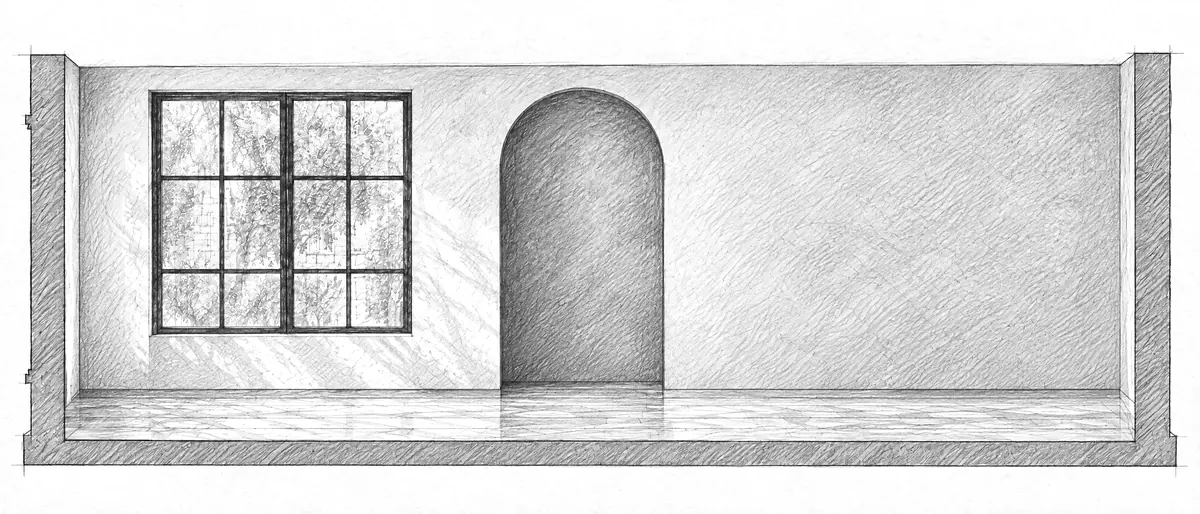
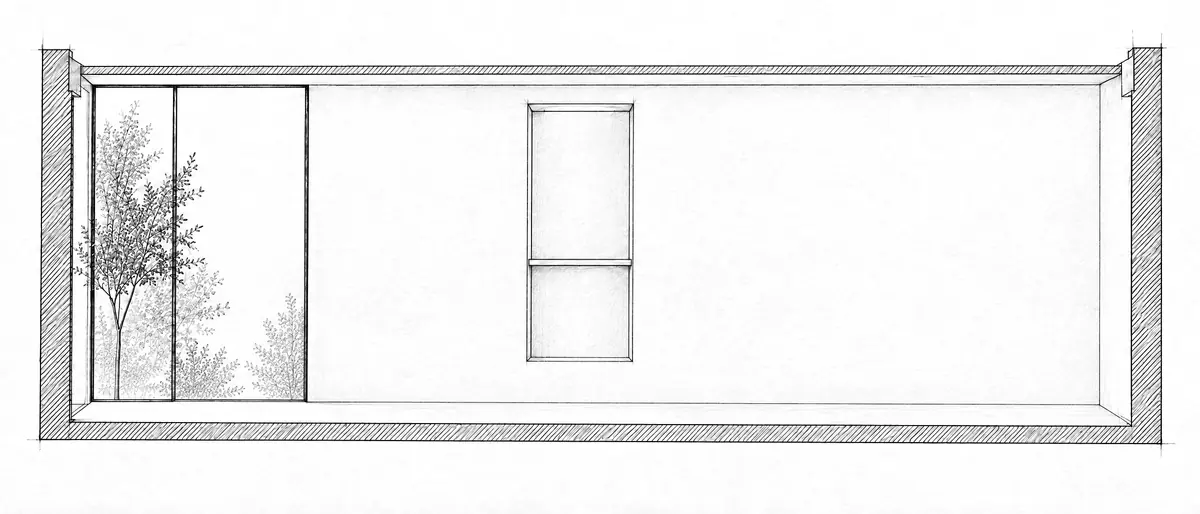
elStudio: el hero pasa a un local minimal cálido, con más plantas
Foto, boceto y local vacío nuevos (Higgsfield): microcemento greige, roble claro y negro mate, nicho
recto con luz, barra monolítica de piedra y repisa negra con luz lineal, y más plantas (hojas grandes,
una colgante, una rama sobre la barra y una alta junto al pedestal). El boceto pasa a lápiz duro de
arquitecto (líneas limpias, rayado fino) y se alineó a la foto con una homografía. Rectángulos de los
muebles y el interior medidos de nuevo (designPieces.js).

Claude-Session: https://claude.ai/code/session_015dLwYhySxogqvvKtSkR7oc

diff --git a/src/studio/elstudio/Hero.jsx b/src/studio/elstudio/Hero.jsx
@@ -20,10 +20,10 @@ import { DESIGN_PIECES, IMG, ROOM_IN_IMAGE as RI } from './designPieces'
  * del dibujo (un alzado, 21:9), a todo el ancho, con la etapa y la lámina en sus esquinas; abajo, una
  * franja baja como la de heronaiapp.com: el título grande a la izquierda y, a la derecha, una celda
  * con el texto de cada etapa. El alto de esa franja es --band-h (elstudio.css).
- * Al terminar el loader, un local (café / showroom) se dibuja a lápiz y carbonilla. Al scrollear
+ * Al terminar el loader, un local (café / showroom, minimal cálido) se dibuja a lápiz. Al scrollear
  * (el hero queda fijo):
  *   01 El espacio   el local vacío, dibujado a lápiz (muros, ventana, nicho, luz).
- *   02 Diseño       cada mueble se dibuja en su lugar, uno por uno (designPieces.js): barra, estantes, banco, mesa, guardado, pedestales, olivo.
+ *   02 Diseño       cada mueble se dibuja en su lugar, uno por uno (designPieces.js): barra, repisa, banco, mesa, nicho, pedestal, árbol.
  *   03 Materia y luz la luz y la sombra se pintan debajo de los trazos, entra el color y los
  *                   trazos se van: queda la foto del local.
  *   04 Experiencia  la cámara se acerca sobre la foto.
@@ -66,7 +66,7 @@ const smooth = (a, b, v) => {
 /** El acercamiento final sobre la foto (localScene.js: uPhotoZoom con la etapa 04 completa). */
 const PHOTO_END_ZOOM = 1.06
 /** Lo que no es fondo en la foto (el local con su base y su sombra), en fracciones de la imagen. */
-const PHOTO_IN = { x0: 0.025, x1: 0.975, y0: 0.118, y1: 0.9 }
+const PHOTO_IN = { x0: 0.03, x1: 0.97, y0: 0.085, y1: 0.87 }
 
 /**
  * Las medidas de la lámina para un escenario de W × H: el cuadrante del dibujo va a todo el ancho,

diff --git a/src/studio/elstudio/designPieces.js b/src/studio/elstudio/designPieces.js
@@ -7,14 +7,21 @@
 export const IMG = { w: 2100, h: 900 }
 
 export const DESIGN_PIECES = [
-  { id: 'bar', rect: [1160, 504, 1780, 754] },
-  { id: 'shelves', rect: [1228, 100, 1806, 492] },
-  { id: 'bench', rect: [257, 518, 637, 686] },
-  { id: 'table', rect: [551, 525, 1050, 758] },
-  { id: 'console', rect: [898, 383, 1136, 678] },
-  { id: 'plinths', rect: [1840, 425, 1976, 752] },
-  { id: 'plant', rect: [105, 212, 318, 720] },
+  // La barra de piedra y las tres banquetas.
+  { id: 'bar', rect: [1118, 536, 1758, 745] },
+  // La repisa negra con sus objetos y la planta que cuelga, la rama sobre la barra y la luz lineal.
+  { id: 'shelves', rect: [1175, 130, 1780, 548] },
+  // El banco bajo el ventanal, con su almohadón.
+  { id: 'bench', rect: [240, 595, 520, 712] },
+  // La mesa redonda, las dos sillas y la planta de hojas grandes.
+  { id: 'table', rect: [430, 322, 905, 733] },
+  // El florero en el estante del nicho.
+  { id: 'console', rect: [975, 380, 1045, 460] },
+  // El pedestal con la esfera y la planta alta.
+  { id: 'plinths', rect: [1835, 318, 1978, 735] },
+  // El árbol en su maceta, junto al ventanal.
+  { id: 'plant', rect: [130, 170, 400, 722] },
 ]
 
-/** El interior en la imagen (fracciones): de muro a muro, del cielorraso al piso. Mide 9 × 3,3 m. */
-export const ROOM_IN_IMAGE = { x0: 0.053, x1: 0.948, y0: 0.111, y1: 0.822, w: 9, h: 3.3 }
+/** El interior en la imagen (fracciones): de muro a muro, del cielorraso al piso. Mide 9,5 × 3 m. */
+export const ROOM_IN_IMAGE = { x0: 0.0595, x1: 0.942, y0: 0.164, y1: 0.822, w: 9.5, h: 3 }

diff --git a/design/masters/elstudio/README.md b/design/masters/elstudio/README.md
@@ -37,3 +37,15 @@ paleta que el hero, generado con Higgsfield (GPT Image 2.5, texto → imagen, 3:
 muestra hasta tener las fotos de un proyecto real del cliente. En el sitio:
 `src/studio/elstudio/assets/proyecto-1.webp` (1800 px) y `proyecto-1-900.webp`. La otra variante
 (`proyecto1-4eefdd63-….png`) quedó descartada.
+
+## Minimal cálido (desde 2026-10-24, el hero usa estas)
+
+El cliente eligió una versión más moderna del local. `moderno-a-foto.png` (Higgsfield, texto → imagen,
+21:9) y, sobre esa, `moderno-a2-foto-2.png` (edición: más plantas) es la foto. `moderno-a2-boceto.png`
+(boceto en lápiz duro, edición de la foto) y `moderno-a2-vacio.png` (vacío, edición del boceto). El
+boceto no calzaba del todo con la foto: se le aplicó una homografía (`moderno-a2-boceto-al.png.npy`,
+la misma para el vacío); quedan desvíos de ~10 px (en 2688) en la planta grande, el nicho y la barra.
+Escaladas a 2400×1029: la foto con el fondo a #efebe3; los bocetos con el papel a blanco, en grises y
+con más contraste en el trazo (el 2H se perdía en pantalla). Los rectángulos de cada mueble y el
+interior en metros: `designPieces.js`. Las opciones descartadas (`moderno-b-*`, el alzado rústico)
+quedan en esta carpeta.
